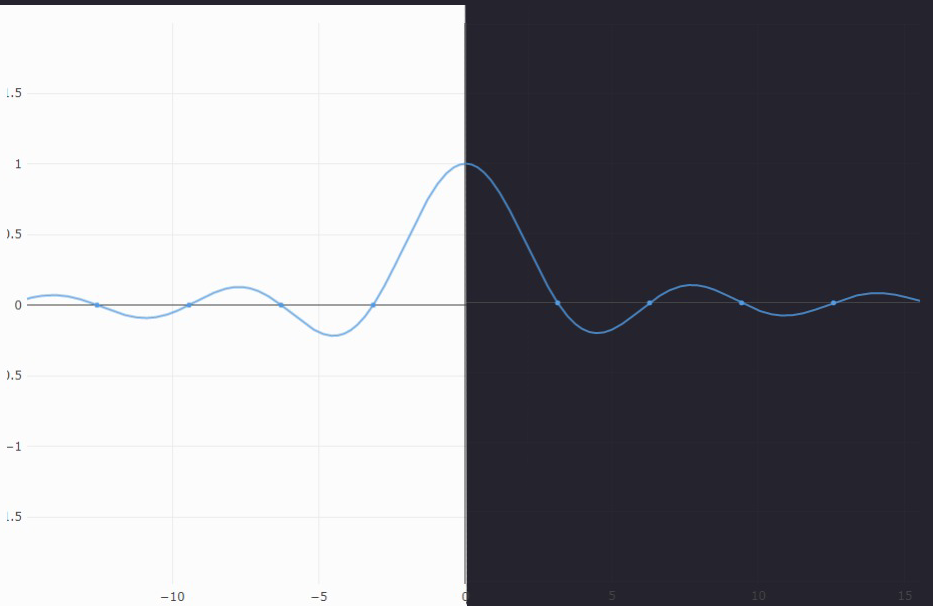
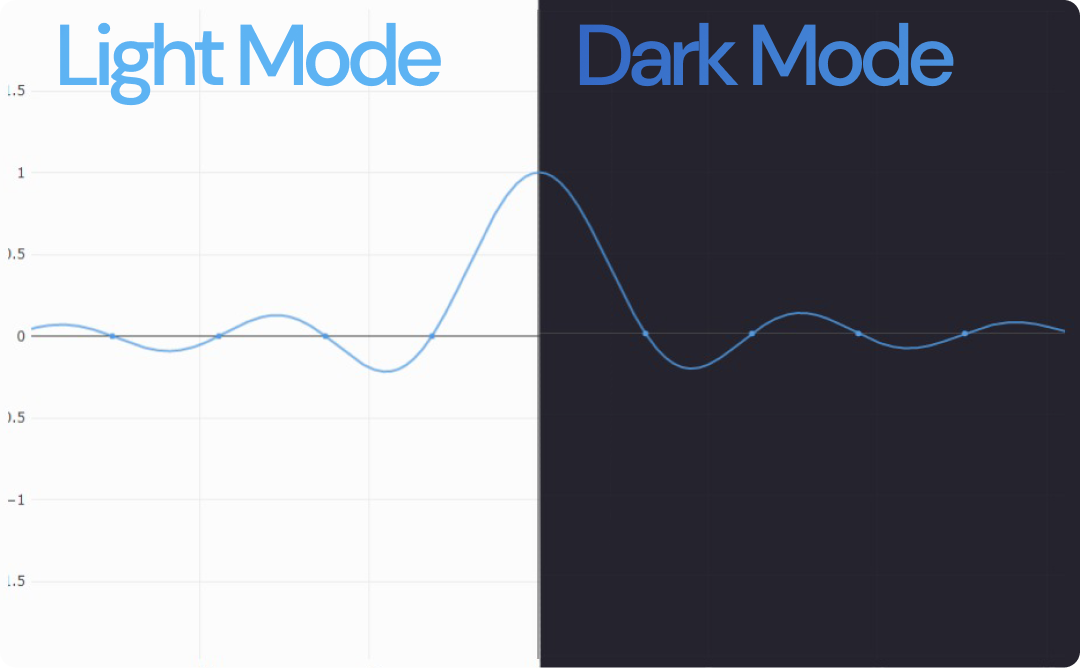
github readme update

diff --git a/README.md b/README.md
@@ -1,2 +1,40 @@
+
+<div align='center'>
+<img src='content/description/main_light.png' width='1080 px' >
+
 # Sidus
 Sidus is a simple , user friendly and fast mathematical function plotter on web.
+<hr>
+<img src='content/description/intuitive_input.png' width='1080 px' >
+<div style='  display: grid; grid-template-columns: 50% 50% ; text-align:left; '>
+<div style='padding: 30px 0;'>
+
+##### The Intuitive input shows you drawn functions as you would write them on paper rather than squeezing everthing on a single line.
+</div>
+<div >
+
+<img src='https://media.giphy.com/media/htKvU5YbIv3tJJfc13/giphy.gif'  alt="Intuitive input example">
+</div>
+</div>
+
+<img src='content/description/dark_light_mode.png' width='1080 px' >
+</div>
+<hr>
+
+## Using Sidus
+
+This is the best part about Sidus.
+Its Super Simple to use
+
+1. Input the function, just as you would write it on paper.
+2. Input the domain of x.
+3. Voila! You get the graph of exactly what you want.
+
+<hr>
+
+### Interact with your Graph
+
+* <img src='content/description/pan.png' width='32 px ' style='transform: translateY(8px);' > Pan around the graph as you will.
+* <img src='content/description/zoom.png' width='32 px ' style='transform: translateY(8px);' > Zoom in to see details.
+* <img src='content/description/snip.png' width='32 px ' style='transform: translateY(8px);' > Save a png image of what you just plotted
+* <img src='content/description/home.png' width='32 px ' style='transform: translateY(8px);' > Go back to default view.
